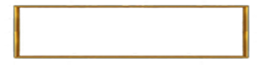
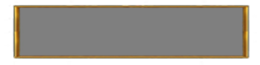
mejorado interfaz

diff --git a/js/escenaHistorial.js b/js/escenaHistorial.js
@@ -12,7 +12,6 @@ class escenaHistorial extends Phaser.Scene {
     this.load.image("marcoBuscar", "../assets/images/Historial/marcoBuscar.png");
     this.load.image("buscar", "../assets/images/Historial/Buscar.png");
     this.load.image("cuadroCompleto", "../assets/images/Historial/cuadroCompleto.png");
-
     this.load.image("volverHistorial", "../assets/images/userInterface/volver.png");
 
     //this.load.image("idHistorial", "../assets/images/Historial/ID.png");
@@ -26,7 +25,7 @@ class escenaHistorial extends Phaser.Scene {
     let portadaHistorial = this.add.image(this.game.renderer.width / 2, this.game.renderer.height / 2 - 20, "portadaHistorial").setDepth(0).setScale(1.1);
     //-------------------------------------------------------------------------------------------------------------------------------------------------------------------//
     let historialTitulo = this.add.image(this.game.renderer.width / 2 + 50, this.game.renderer.height / 2 - 250, "historialTitulo").setDepth(1).setScale(0.80);
-
+    let texto1 = this.add.text(this.game.renderer.width / 2 - 480, this.game.renderer.height / 2 - 170, "Escribir nombre de usuario",{ fontFamily: '"Roboto Condensed",Verdana, "Times New Roman", Tahoma, serif' , color: '#2d3037'}).setDepth(2).setScale(1.03);
     let buscar = this.add.image(this.game.renderer.width / 2 - 385, this.game.renderer.height / 2 - 215, "buscar").setDepth(1).setScale(0.5);
     let cuadroCompleto = this.add.image(this.game.renderer.width / 2 + 40, this.game.renderer.height / 2 - 150, "cuadroCompleto").setDepth(1).setScale(1.05);
     let marcoHistorial1 = this.add.image(this.game.renderer.width / 2 + 45, this.game.renderer.height / 2 + 35, "marcoHistorial").setDepth(1).setScale(1.05);

diff --git a/js/pantallaPressStart.js b/js/pantallaPressStart.js
@@ -10,7 +10,7 @@ class pantallaPressStart extends Phaser.Scene {
     this.add.image()
 
     let logo = this.add.image(this.game.renderer.width / 2, this.game.renderer.height / 2 - 60, "logo").setScale(0.35);
-    let texto = this.add.text(this.game.renderer.width / 2 - 115, this.game.renderer.height / 2 + 240, "Press any button to start");
+    let texto = this.add.text(this.game.renderer.width / 2 - 115, this.game.renderer.height / 2 + 240, "Pulsa cualquier tecla para jugar");
 
     logo.alpha = 0;
     this.tweens.add({
